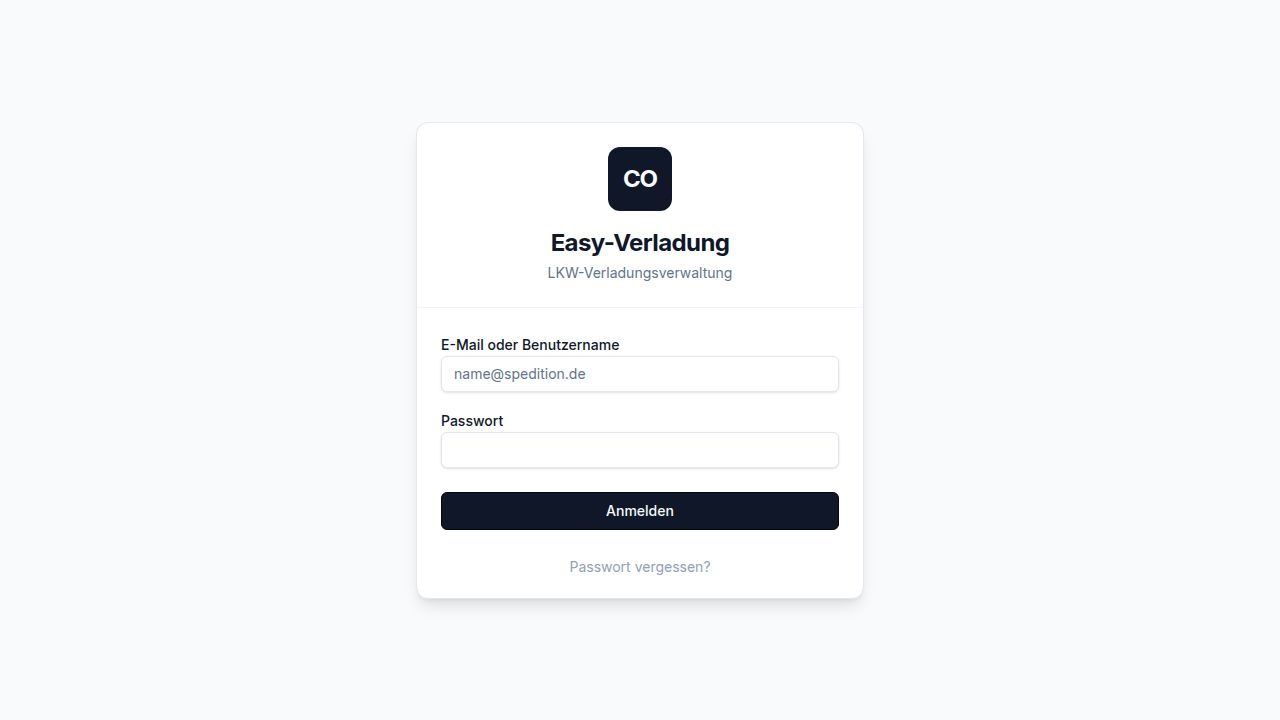
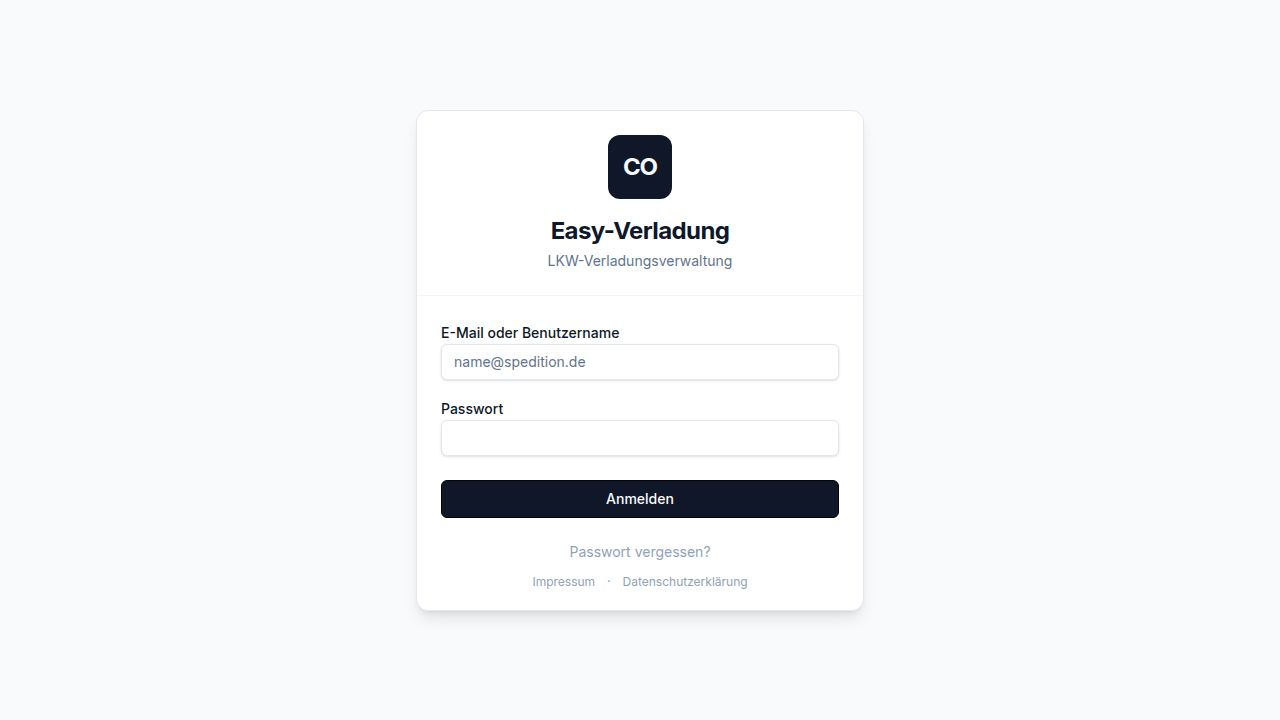
Apply Paletten-Tauschfaktor to Austrag/dispatch flow + make Neuerungen configurable
1. Fix: pallet exchange factor (Tauschfaktor) was not applied when
   dispatching/checking out trucks ("Auftragen von LKW" / Austrag),
   even though it was correctly applied in "Palettenkonto -> Neue
   Buchung". Updated artifacts/api-server/src/routes/austraege.ts to
   replicate the exact same calculation as movement-dialog.tsx:
   - movementType is now derived from GROSS quantities (von/an
     Europaletten + Ladungssicherung, ignoring Defekte) so both-sided
     exchanges are correctly classified as "neutral" instead of a
     simple net ausgang/eingang.
   - Fetches the assigned spedition's palletFaktor and, for neutral
     movements with faktor > 1, computes the amount as
     anGross*faktor - vonGross (defects excluded from the calculation,
     matching the "Defekte zählen nicht" rule), instead of always using
     raw net quantity difference.
   - Movement creation now triggers whenever any pallets were exchanged
     (vonGross>0 || anGross>0), not just when the old net amount was
     nonzero, so zero-net-effect factor bookings are still recorded.
   Verified end-to-end: spedition with Tauschfaktor 3, Austrag with
   Von=300 (all 300 marked defective) / An=100 correctly booked as a
   Neutral movement with zero net balance impact (100*3 - 300 = 0),
   matching movement-dialog.tsx behavior exactly.

2. Feature: made the new "Neuerungen" (changelog) sidebar link
   configurable under Settings -> Sidebar, consistent with all other
[…]

Changed region(s): [[0.3438, 0.6417, 0.6562, 0.8556], [0.4062, 0.1833, 0.5938, 0.3972], [0.3438, 0.4583, 0.5, 0.6111]]

diff --git a/artifacts/api-server/src/routes/austraege.ts b/artifacts/api-server/src/routes/austraege.ts
@@ -80,20 +80,43 @@ router.post("/austraege", requireAuth, async (req, res) => {
       return res.status(400).json({ error: "Datum ist erforderlich" });
     }
 
-    // Correct formula: subtract defects from totals
-    const vonNet =
-      Number(vonCometEuropaletten ?? 0) +
-      Number(vonCometLadungssicherung ?? 0) -
-      Number(vonDefektePaletten ?? 0);
-    const anNet =
-      Number(anCometEuropaletten ?? 0) +
-      Number(anCometLadungssicherung ?? 0) -
-      Number(anDefektePaletten ?? 0);
+    // Gross = euro + ladungssicherung (ohne Defekte-Abzug); Net = gross - defekte.
+    // Identisch zur Berechnung in "Palettenkonto -> Neue Buchung" (movement-dialog.tsx).
+    const vonGross =
+      Number(vonCometEuropaletten ?? 0) + Number(vonCometLadungssicherung ?? 0);
+    const anGross =
+      Number(anCometEuropaletten ?? 0) + Number(anCometLadungssicherung ?? 0);
+    const vonTotal = vonGross - Number(vonDefektePaletten ?? 0);
+    const anTotal = anGross - Number(anDefektePaletten ?? 0);
+    const calculatedAmount = vonTotal - anTotal;
 
-    // Net pallet exchange from COMET's perspective:
-    // vonNet > anNet → COMET gave out more than received back → Ausgang (net loss)
-    // anNet > vonNet → COMET received more back than gave out  → Eingang (net gain)
-    const netAmount = vonNet - anNet;
+    // Art wird wie im Buchungsdialog anhand der Brutto-Mengen ermittelt:
+    // beide Seiten (brutto) > 0 → Neutral, nur Von → Ausgang, nur An → Eingang.
+    const movementType: "neutral" | "ausgang" | "eingang" | null =
+      vonGross > 0 && anGross > 0
+        ? "neutral"
+        : vonGross > 0
+          ? "ausgang"
+          : anGross > 0
+            ? "eingang"
+            : null;
+
+    let palletFaktor = 1;
+    const spedIdForFaktor = beauftragteSpeditionId ? Number(beauftragteSpeditionId) : null;
+    if (spedIdForFaktor) {
+      const [sped] = await db
+        .select({ palletFaktor: speditionenTable.palletFaktor })
+        .from(speditionenTable)
+        .where(eq(speditionenTable.id, spedIdForFaktor));
+      palletFaktor = sped?.palletFaktor ?? 1;
+    }
+
+    // Bei Neutral-Buchungen mit Tauschfaktor > 1 zählen Defekte nicht (Brutto-Mengen),
+    // und der Eingang wird faktor-fach gewertet — identisch zum Buchungsdialog.
+    const netAmount =
+      movementType === "neutral" && palletFaktor > 1
+        ? anGross * palletFaktor - vonGross
+        : calculatedAmount;
 
     const [row] = await db
       .insert(lkwAustraegeTable)
@@ -118,10 +141,10 @@ router.post("/austraege", requireAuth, async (req, res) => {
 
     await logAudit(req.session.userId!, "austrag", row.id, "create", null, JSON.stringify({ shipmentId, datum, tor }));
 
-    // Auto-book a single net pallet movement if a spedition is assigned
+    // Auto-book a single pallet movement if a spedition is assigned and pallets were exchanged.
+    // Art und Betrag werden identisch zu "Palettenkonto -> Neue Buchung" berechnet (inkl. Tauschfaktor).
     const spedId = beauftragteSpeditionId ? Number(beauftragteSpeditionId) : null;
-    if (spedId && netAmount !== 0) {
-      const movementType = netAmount > 0 ? "ausgang" : "eingang";
+    if (spedId && movementType) {
       const absNet = Math.abs(netAmount);
       await db.insert(palletMovementsTable).values({
         speditionId: spedId,

diff --git a/artifacts/comet-lkw/src/lib/nav-icons.ts b/artifacts/comet-lkw/src/lib/nav-icons.ts
@@ -3,7 +3,7 @@ import {
   Activity, AlertTriangle, Archive, BarChart, BarChart2, Bell, Bookmark,
   Box, Boxes, Building2, Calculator, Calendar, CalendarCheck, CalendarDays, Car,
   CheckCircle2, ClipboardCheck, ClipboardList, Clock, Clock3, Database,
-  Eye, FileCheck2, FileText, Flag, Folder, Gauge, Globe, HelpCircle,
+  Eye, FileClock, FileCheck2, FileText, Flag, Folder, Gauge, Globe, HelpCircle,
   History, Home, Info, Layers, LayoutDashboard, LayoutGrid, List, Lock,
   Mail, Map, MapPin, Navigation, Package, Package2, PackageSearch, Phone,
   PieChart, Receipt, Route, Ruler, Scale, Search, Settings, Share2,

diff --git a/artifacts/comet-lkw/src/pages/settings/sidebar-nav-config.tsx b/artifacts/comet-lkw/src/pages/settings/sidebar-nav-config.tsx
@@ -60,6 +60,7 @@ const ITEM_ALLOWED_ROLES: Record<string, readonly string[] | null> = {
   "/berechtigungen":    null,
   "/tickets":           null,
   "/hilfe":             null,
+  "/changelog":         null,
 };
 
 // Fallback short/long labels for built-in system roles
@@ -105,6 +106,7 @@ const DEFAULT_NAV_ITEMS: { href: string; defaultLabel: string; defaultIconName: 
   { href: "/berechtigungen", defaultLabel: "Berechtigungen", defaultIconName: "ShieldCheck" },
   { href: "/tickets", defaultLabel: "Tickets", defaultIconName: "TicketIcon" },
   { href: "/hilfe", defaultLabel: "Hilfe & Anleitung", defaultIconName: "HelpCircle" },
+  { href: "/changelog", defaultLabel: "Neuerungen", defaultIconName: "FileClock" },
 ];
 
 // ── Color palette ──────────────────────────────────────────────────────────────